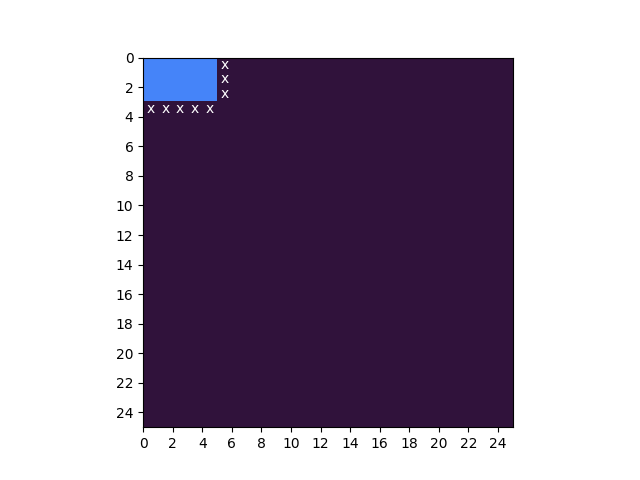
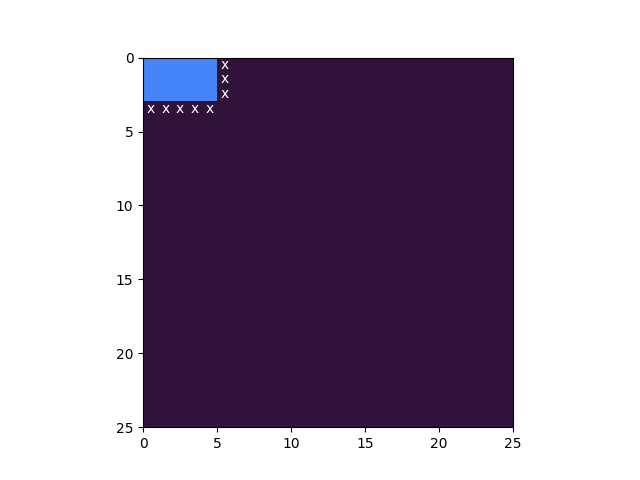
fix xticks yticks of plt

diff --git a/files/DataGenerator.py b/files/DataGenerator.py
@@ -198,8 +198,6 @@ def rd_car_size():
 
 if __name__ == '__main__':
     np.set_printoptions(threshold=sys.maxsize, linewidth=sys.maxsize)
-    plt.xticks(list(range(0, 26, 2)))
-    plt.yticks(list(range(0, 26, 2)))
 
     # numbers of rectangles based on difficulty (index)
     rect_counts = [i for i in range(6, 11)] + \
